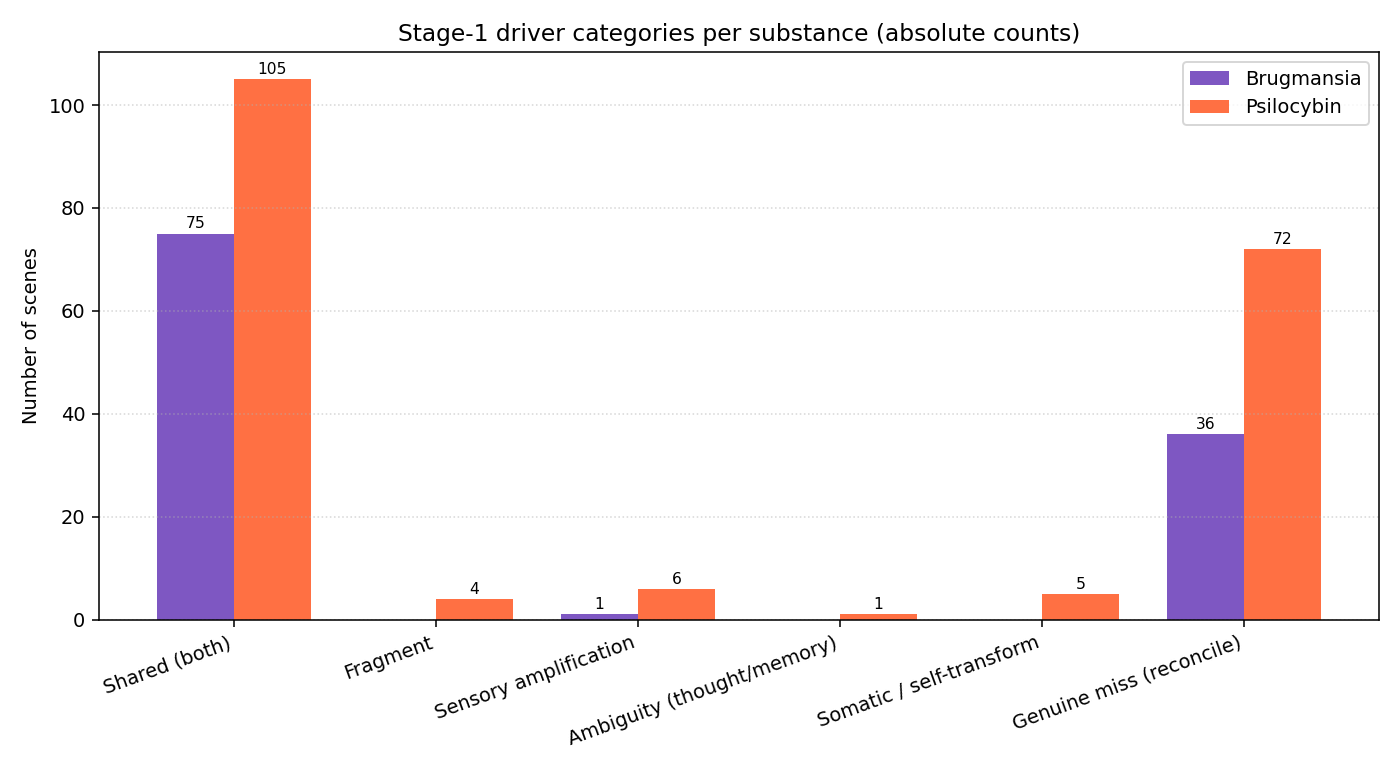
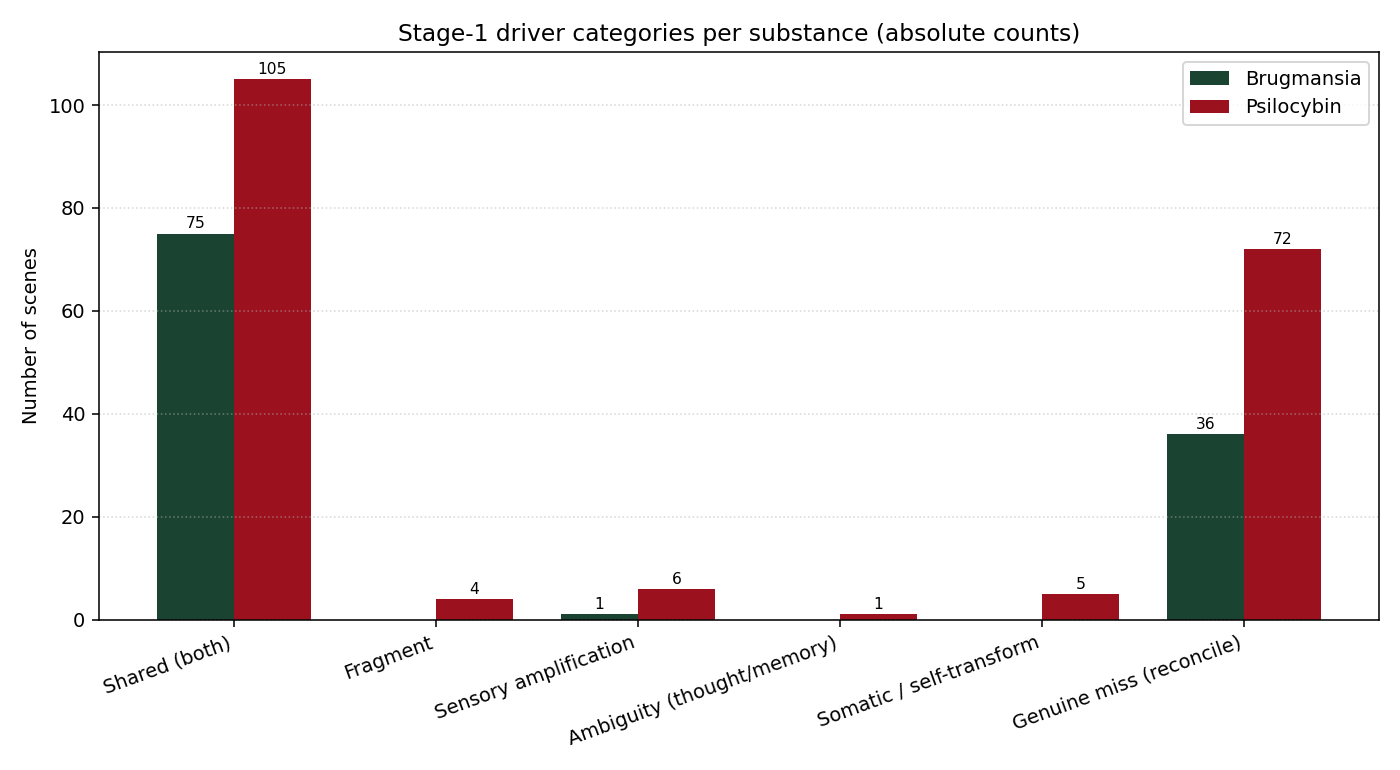
Substance palette: brugmansia = forest dark green, psilocybin = ruby red
Applied consistently across viz page (Chart.js datasets in Chart 1 and
Chart 3) and the static matplotlib figures (driver_counts_by_substance,
driver_proportion_by_substance, driver_by_pair).

Colours used:
  brugmansia: #1b4332 (forest dark green)
  psilocybin: #9b111e (ruby red)

diff --git a/docs/visualizations.html b/docs/visualizations.html
@@ -347,8 +347,8 @@
         data: {
           labels: combined.map(r => r.key),
           datasets: [
-            { label: 'brugmansia', data: brugVals, backgroundColor: '#7e57c2' },
-            { label: 'psilocybin', data: psilVals, backgroundColor: '#ff7043' },
+            { label: 'brugmansia', data: brugVals, backgroundColor: '#1b4332' },
+            { label: 'psilocybin', data: psilVals, backgroundColor: '#9b111e' },
           ],
         },
         options: {

diff --git a/1.Recoding/scripts/12_visualize_drivers.py b/1.Recoding/scripts/12_visualize_drivers.py
@@ -34,6 +34,11 @@ DRIVER_COLOURS = {
     "SOMA": "#e91e63",
     "RCL":  "#f44336",
 }
+# Substance palette — used wherever brugmansia and psilocybin are directly compared.
+SUBSTANCE_COLOURS = {
+    "brugmansia": "#1b4332",  # forest dark green
+    "psilocybin": "#9b111e",  # ruby red
+}
 
 
 def load(path):
@@ -69,7 +74,7 @@ def main():
     for i, sub in enumerate(substances):
         vals = [counts_by_sub[sub][d] for d in DRIVERS_ORDER]
         bars = ax.bar(x + (i - (len(substances)-1)/2) * width, vals, width,
-                      label=sub.title(), color=["#7e57c2", "#ff7043"][i])
+                      label=sub.title(), color=SUBSTANCE_COLOURS[sub])
         for b, v in zip(bars, vals):
             if v:
                 ax.text(b.get_x() + b.get_width()/2, v + 1, str(v), ha="center", fontsize=8)

diff --git a/1.Recoding/scripts/15_build_visualizations_page.py b/1.Recoding/scripts/15_build_visualizations_page.py
@@ -390,8 +390,8 @@ def main():
         data: {
           labels: combined.map(r => r.key),
           datasets: [
-            { label: 'brugmansia', data: brugVals, backgroundColor: '#7e57c2' },
-            { label: 'psilocybin', data: psilVals, backgroundColor: '#ff7043' },
+            { label: 'brugmansia', data: brugVals, backgroundColor: '#1b4332' },
+            { label: 'psilocybin', data: psilVals, backgroundColor: '#9b111e' },
           ],
         },
         options: {
